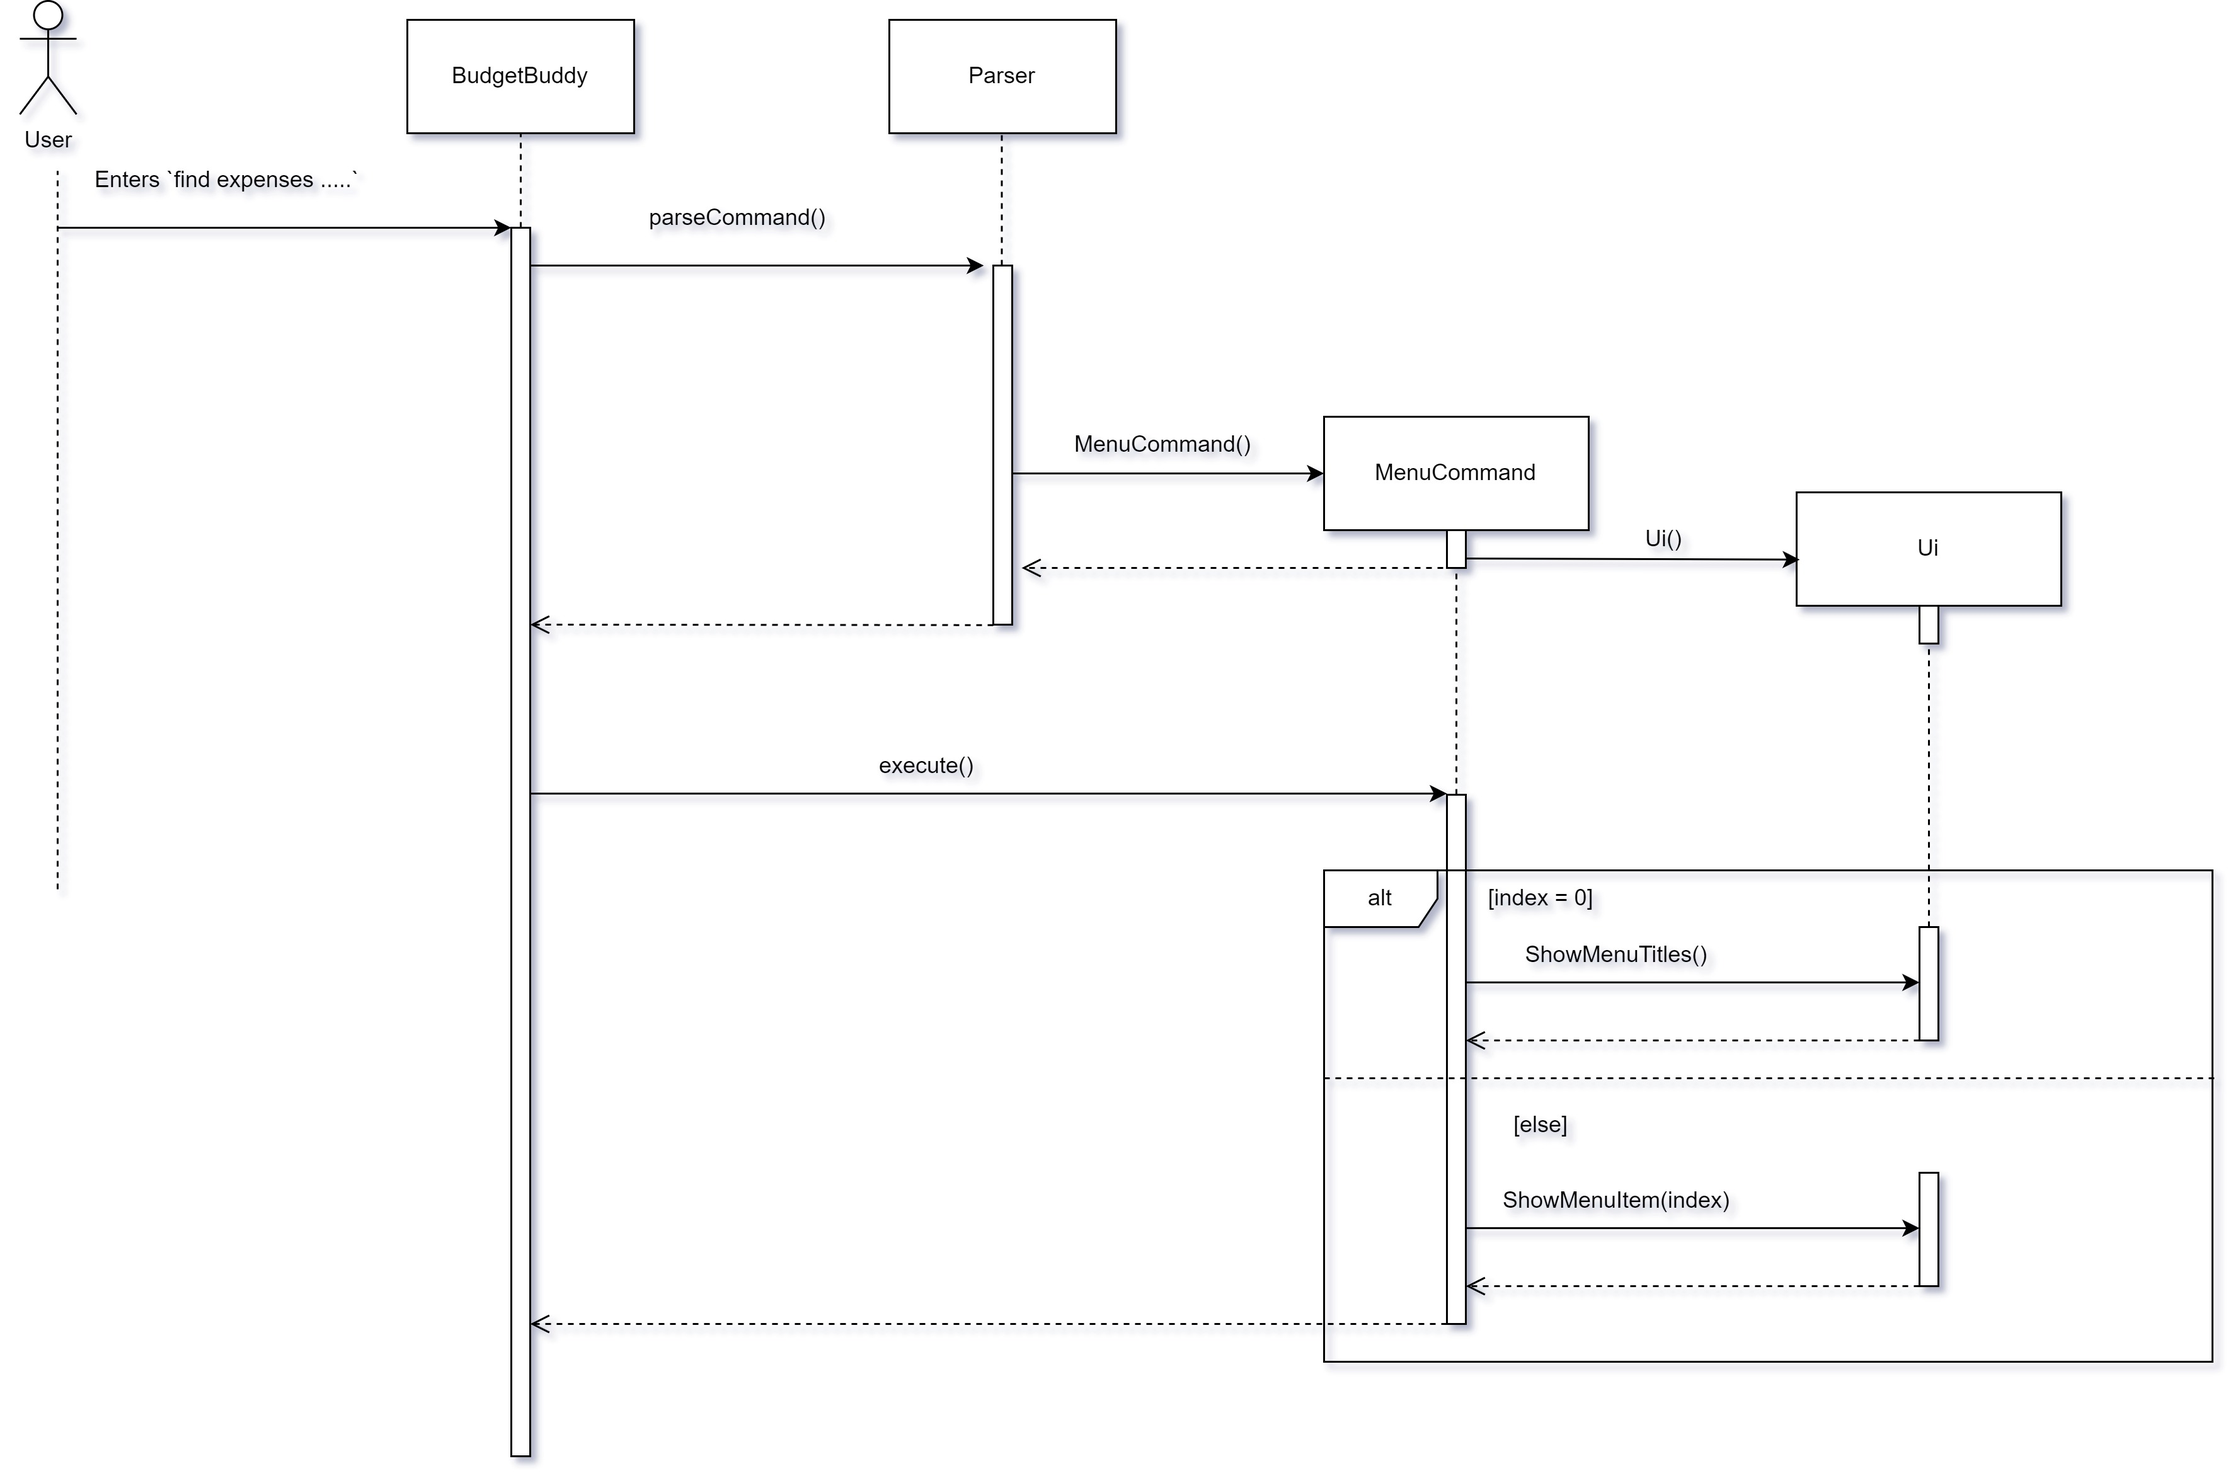
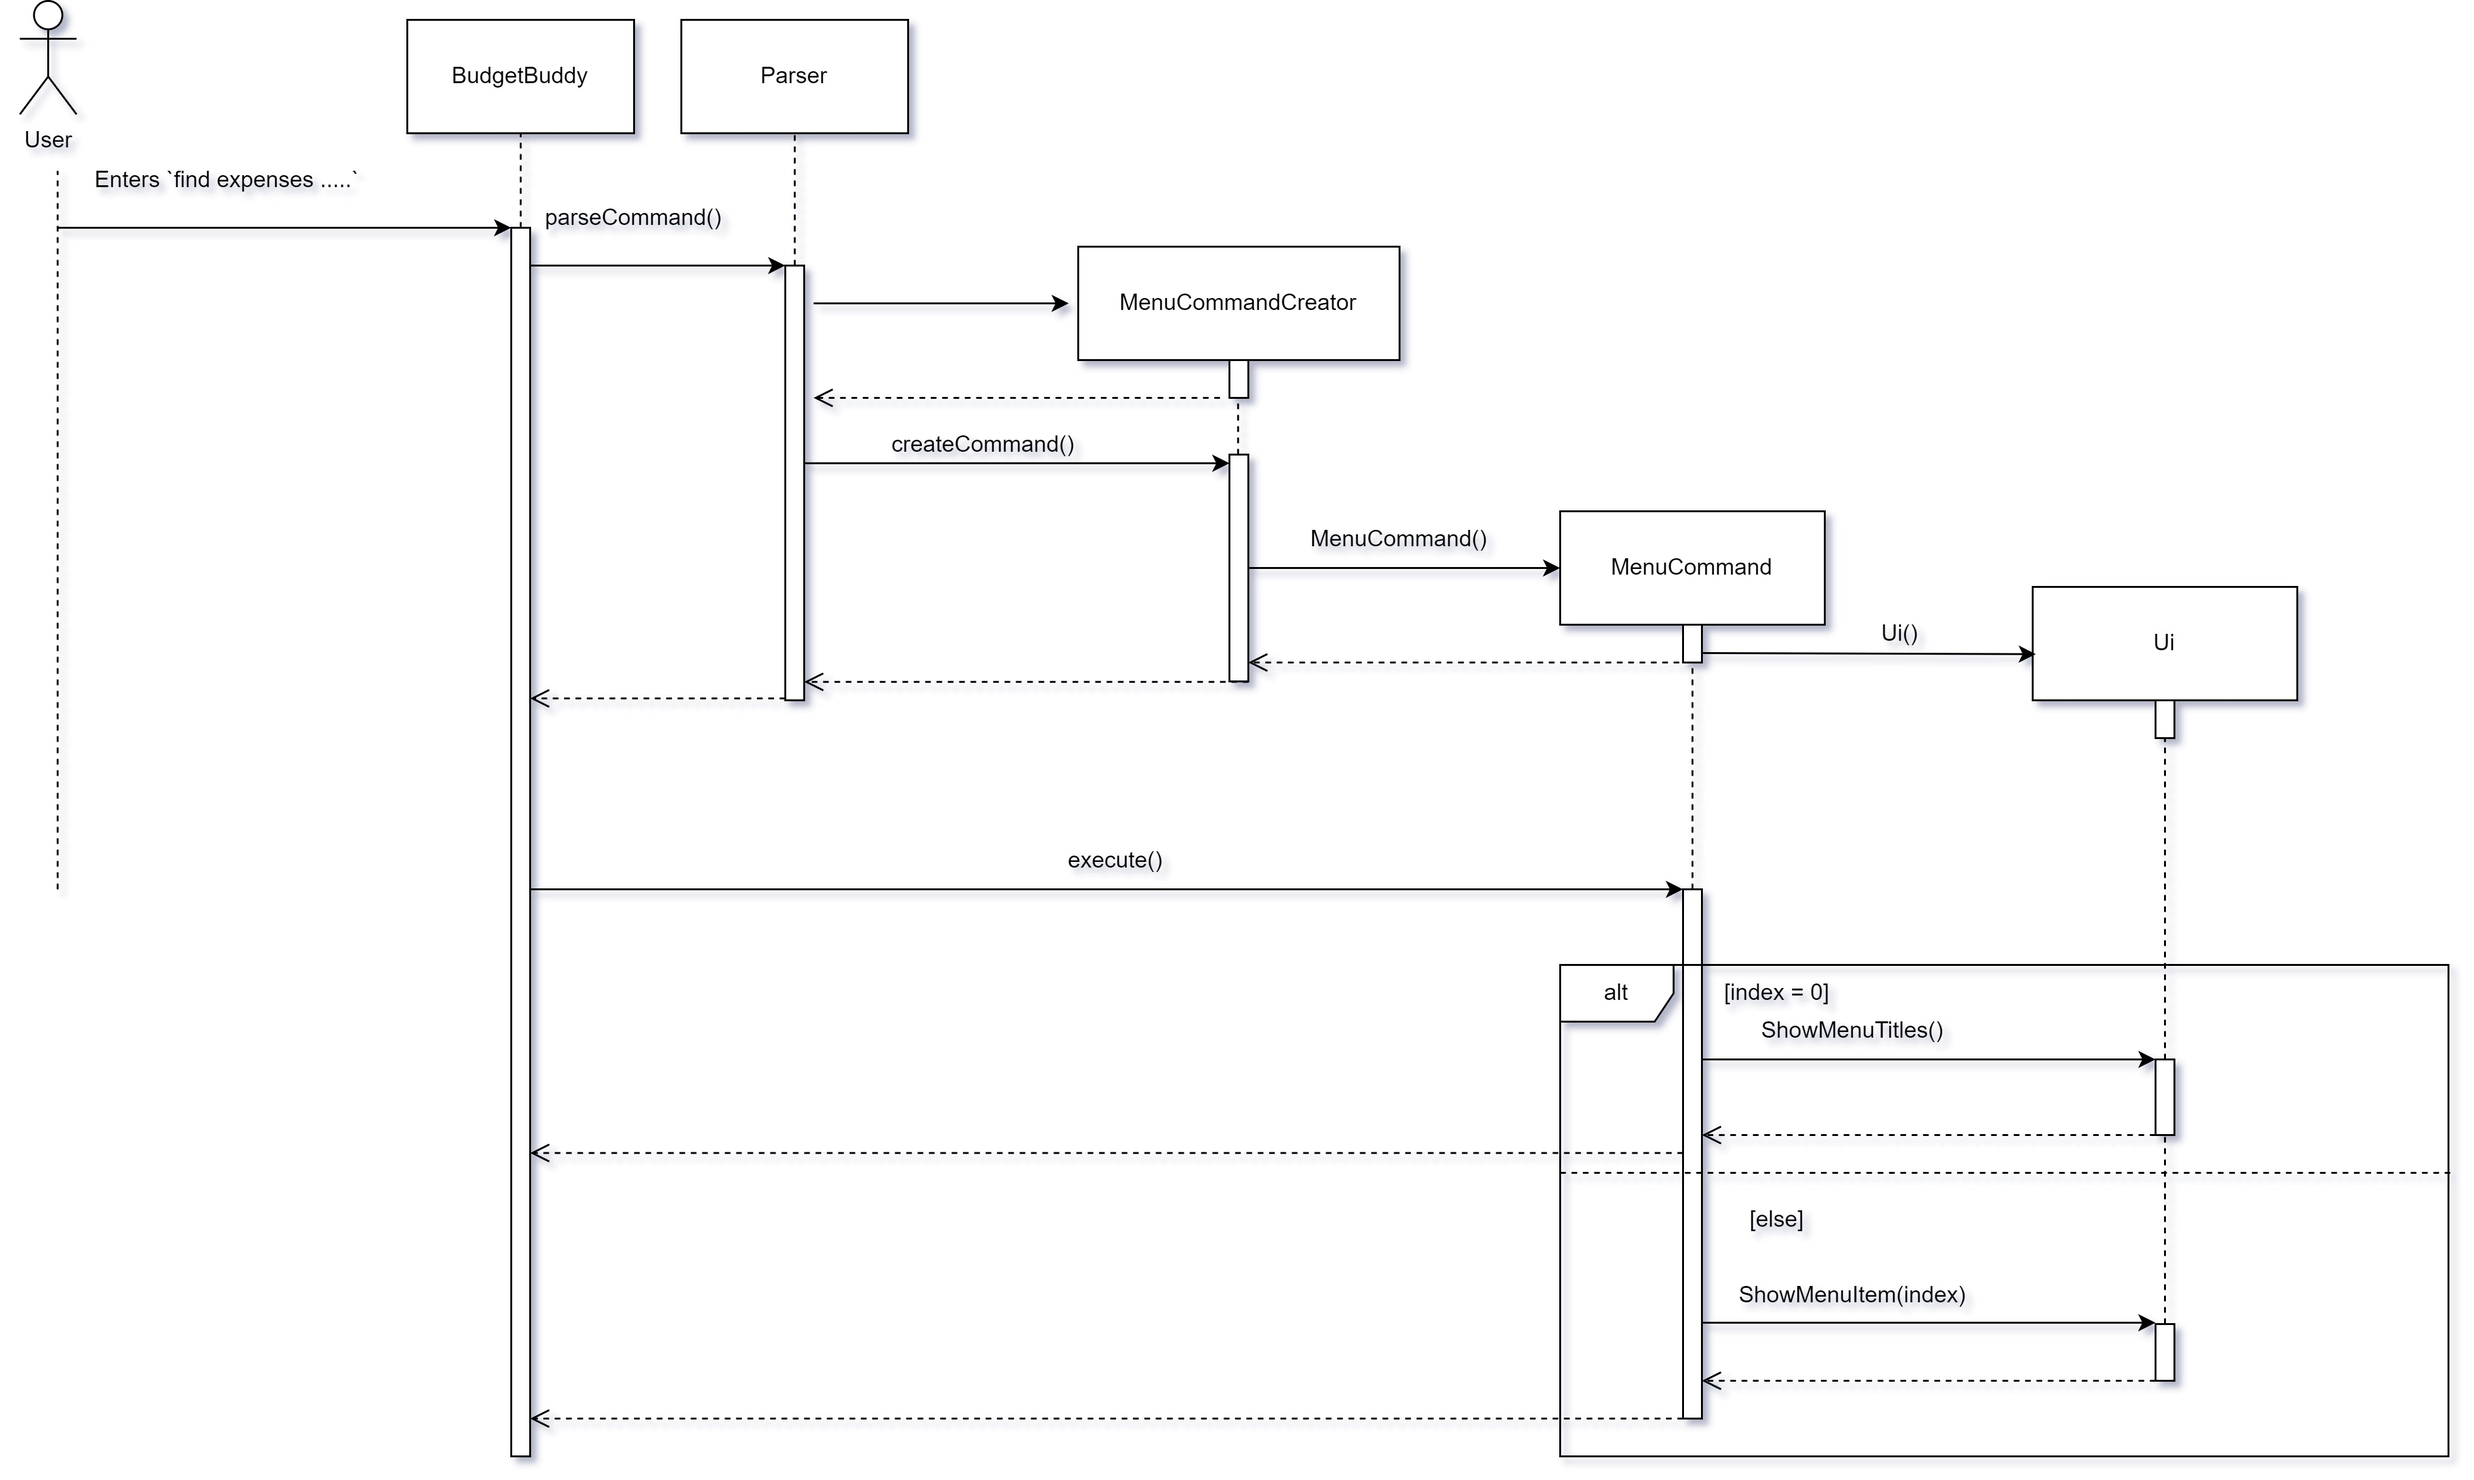
Update DG to include MenuCommandCreator for MenuFeature

diff --git a/docs/DeveloperGuide.md b/docs/DeveloperGuide.md
@@ -9,11 +9,11 @@
 {Describe the design and implementation of the product. Use UML diagrams and short code snippets where applicable.}
 ### Menu Feature
 
-#### Implementation 
-
+#### Implementation
 The menu feature is designed to allow users to view the relevant command formats by inputting the relevant menu
-indexes. This feature is orchestrated by the `MenuCommand` class, which is initialized by the `Parser`. Within the 
-`MenuCommand` object, the Parser would initialize one class-level variable `index` of type `String`. The relevance of
+indexes. This feature is orchestrated by the `MenuCommand` class, which is initialized by the `MenuCommandCreator` 
+class. Which is in turn, created by the `Parser` class. Within the `MenuCommand` object, the 
+`MenuCommandCreator` would initialize one class-level variable `index` of type `String`. The relevance of
 this class-level variable in `MenuCommand` is as follows
 
 | Variable Name | Variable Type | Relevance                                              |
@@ -39,22 +39,26 @@ utilizes methods from the `UI` class to display the relevant menu items. The uti
 | showMenuTitles()    | void        | Prints all Menu Items               |
 | showMenuItem(INDEX) | void        | Prints commands associated at INDEX |
 
-The following UML Sequence Diagram shows how the Menu feature works :
+The following UML Sequence Diagram shows how the MenuCommandCreator for Menu Commands work, NOTING that the Parser
+has already detected that the user input is a menu command and has initialized a MenuCommandCreator object:
+![Sequence Diagram for MenuCommandCreator for Menu Command](diagrams/sequenceDiagram-MenuCommandCreator.jpg)
+
+The following UML Sequence Diagram shows how the overall Menu feature works :
 ![Sequence Diagram for Menu Command](diagrams/sequenceDiagram_MenuFeature.jpg)
 
-The following UML Sequence Diagram shows how the Parser for Menu Commands work :
-![Sequence Diagram for Parser for Menu Command](diagrams/Parser-Menu-Command-Sequence-Diagram.jpg)
-
-Given below is an example usage scenario and how the Menu feature works :
-1. The user types `menu 1`. This input passed from `BudgetBuddy` into `Parser#parseCommands`.
-2. Within the `Parser` , the checks for whether the input is valid, in particular whether it is a valid integer
-, along with obtaining the value of `index` is done in `Parser#handleMenuCommand`
-3. `Parser` creates a constructor for `MenuCommand` with the parameter `1`, which in turn 
+Given below is an example usage scenario and how the full Menu feature works :
+1. The user types `menu 1`. This input passed from `BudgetBuddy` into `Parser#parseCommands()`.
+2. Within the `Parser` , it determines that the input is a menu command from `isMenuCommand()`, and creates a new
+`MenuCommandCreator` object.
+3. The `Parser` then calls `MenuCommandCreator#createCommand()`
+4. The checks for whether the input is valid, in particular whether it is a valid integer, 
+along with obtaining the value of `index` is done in `MenuCommandCreator#handleMenuCommand`
+5. `MenuCommandCreator` creates a constructor for `MenuCommand` with the parameter `1`, which in turn 
 also constructs a new `Ui` object
-4. `Parser` returns this created `MenuCommand` to `BudgetBuddy`
-5. `BudgetBuddy` then calls `MenuCommand#execute()`
-6.  `execute()` then calls `Ui#showMenuItem(1)`
-7. `showMenuItem()` in `Ui` then prints all commands for `case 1` which is for `Manage Expenses`
+6. `MenuCommandCreator` returns this created `MenuCommand` to `Parser`, which is then returned to `BudgetBuddy`
+7. `BudgetBuddy` then calls `MenuCommand#execute()`
+8. `execute()` then calls `Ui#showMenuItem(1)`
+9. `showMenuItem()` in `Ui` then prints all commands for `case 1` which is for `Manage Expenses`
 
 ## Product scope
 ### Target user profile
